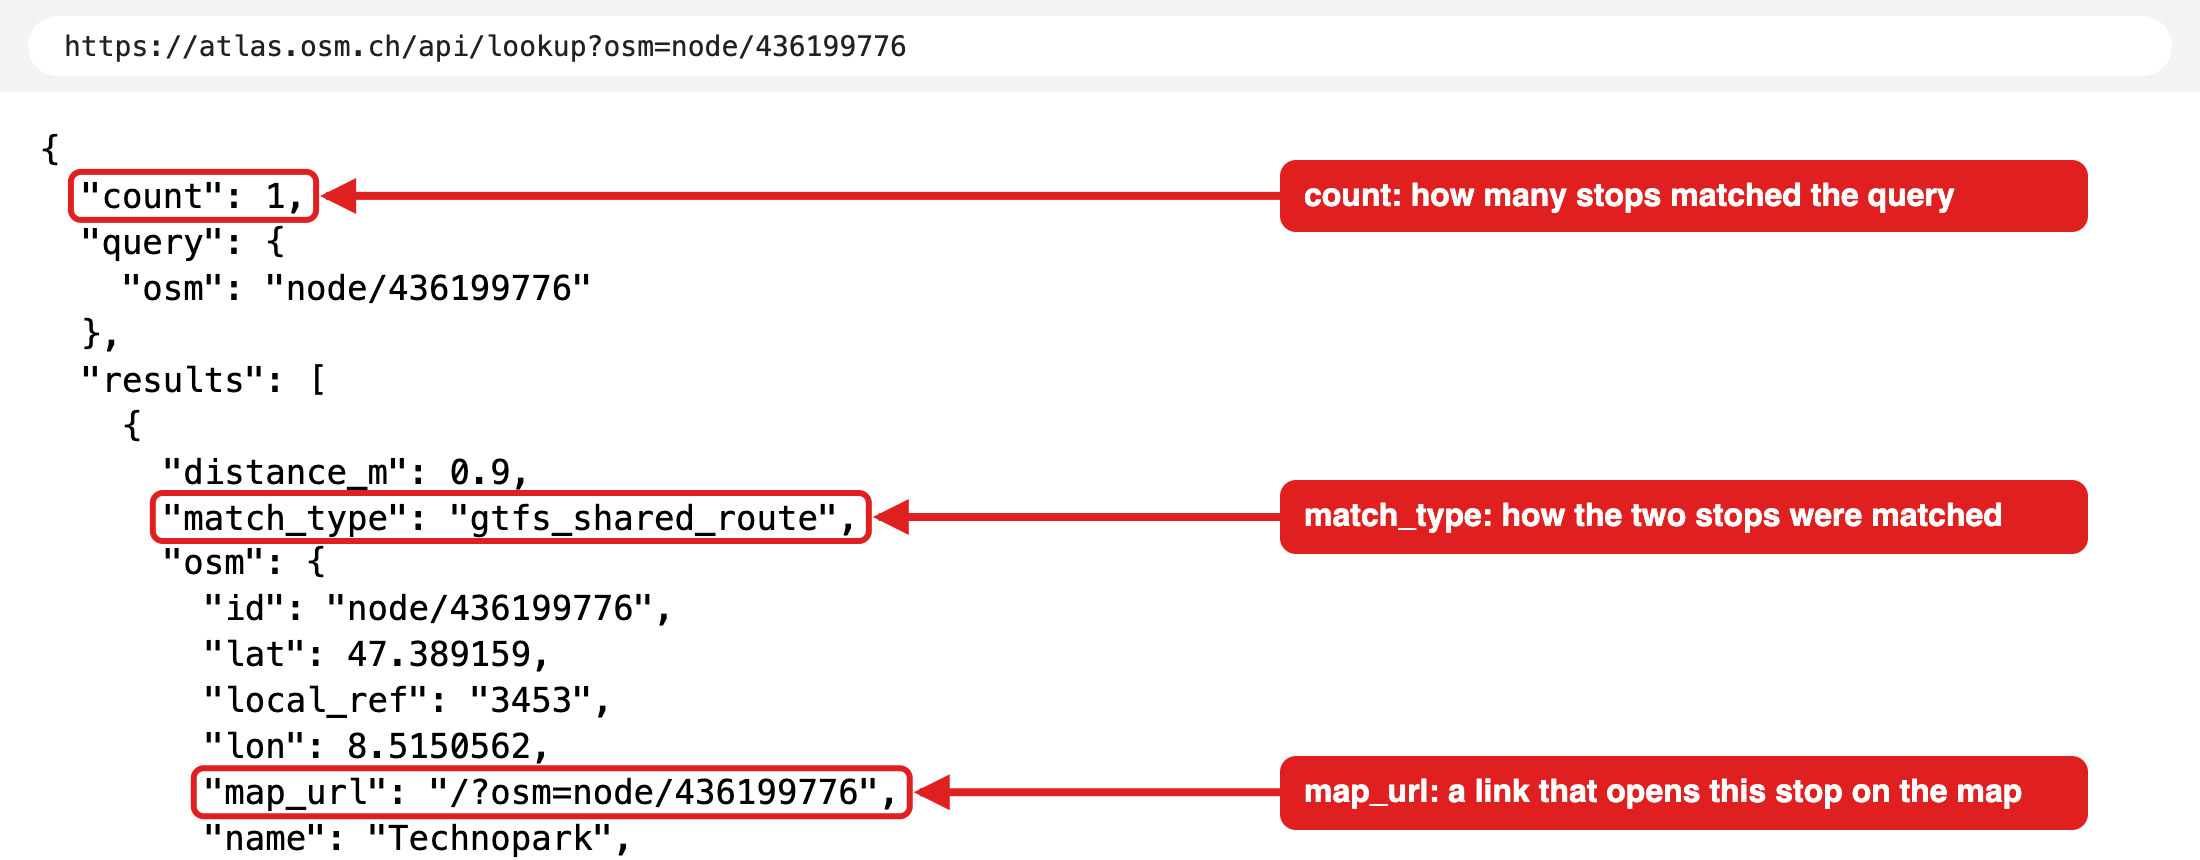
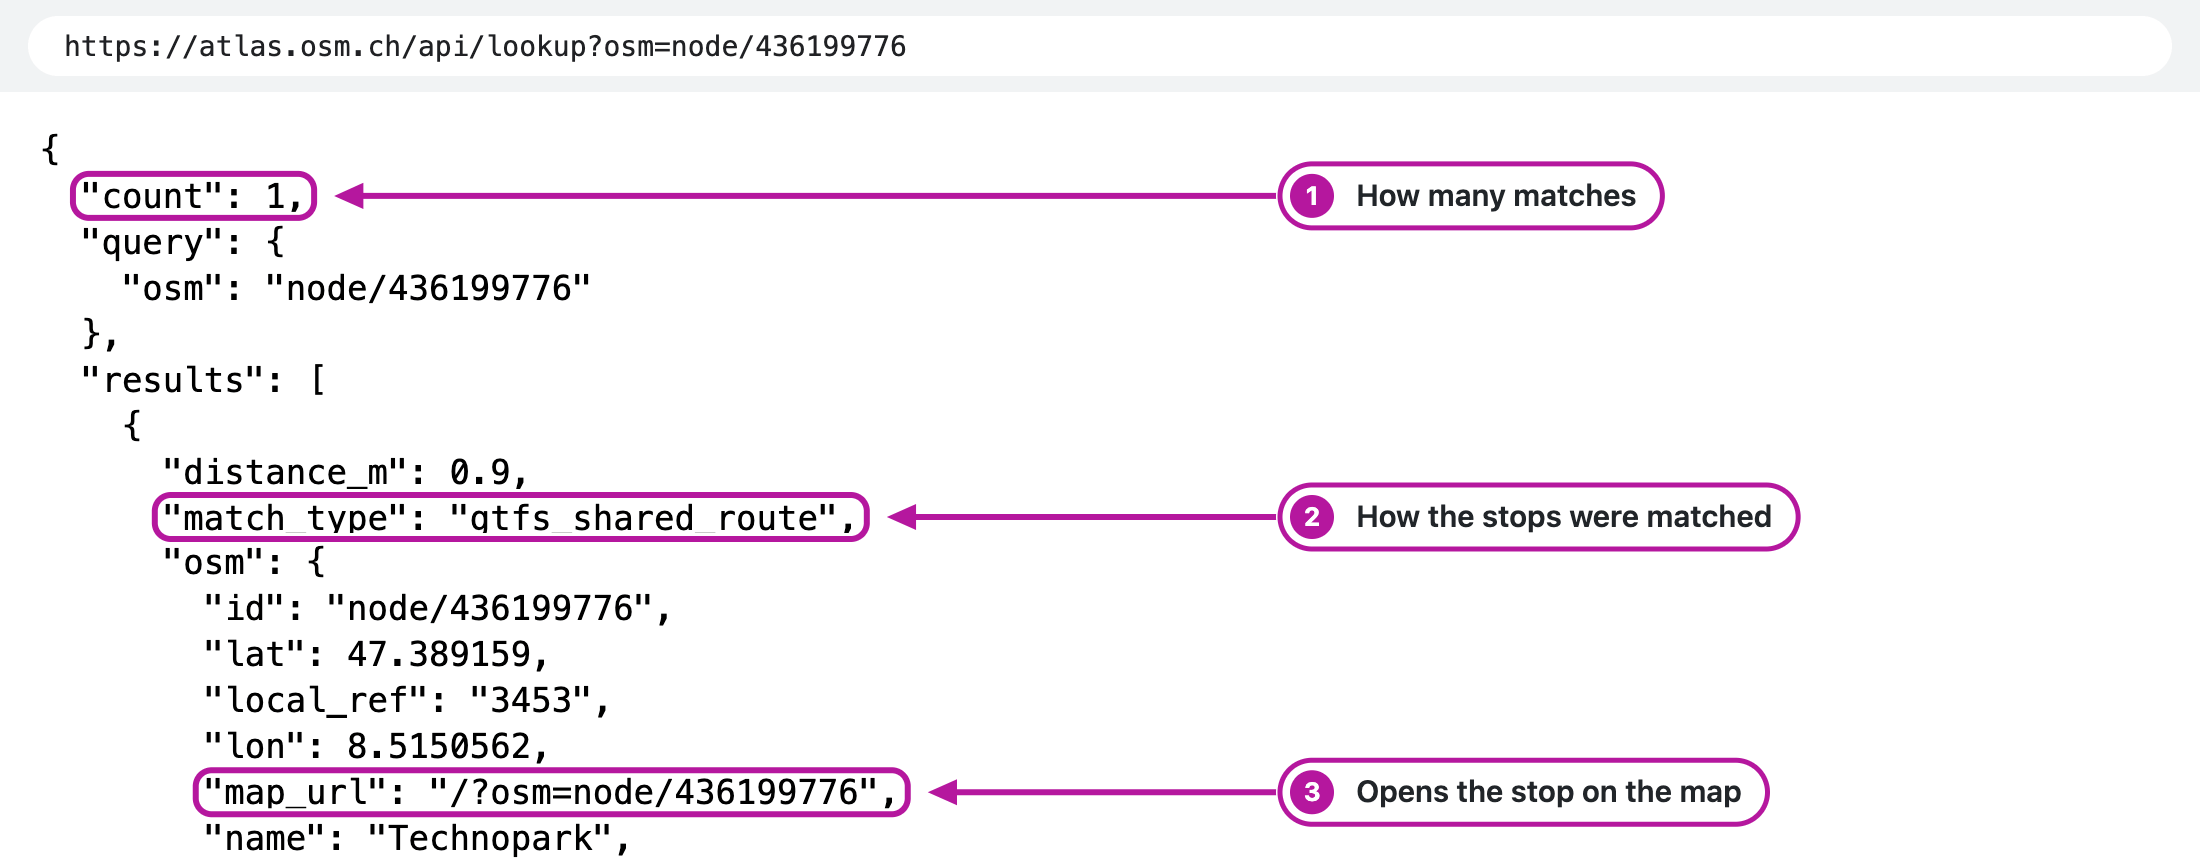
Enhance documentation for problems, routes, and sharing links
- Updated the "Problems" page with a detailed overview of the interface, including new images for better clarity.
- Improved the "Comparing routes" section to provide clearer explanations of line and variant comparisons, including new diagrams.
- Added a section on sharing links and API usage, with visual aids to illustrate the process.
- Introduced new diagrams to visually represent the relationship between GTFS routes and OSM route relations.
- Added several new images to support the documentation updates, including examples of unmatched variants and attribute mismatches.

diff --git a/documentation/diagrams/catalog.py b/documentation/diagrams/catalog.py
@@ -564,6 +564,55 @@ def route_model() -> Diagram:
     return d
 
 
+def route_line_and_variants() -> Diagram:
+    d = Diagram(
+        960, 420,
+        'A line and its variants',
+        'An illustrative bus line 31 on both sides. In the GTFS timetable the line is a route, and its trips '
+        'form one variant per direction and headsign. In OpenStreetMap the line is a route master relation, '
+        'and each of its route relations is one variant. The site matches the two lines first (1), then pairs '
+        'their variants (2). Two variants are paired; the third GTFS variant, a short run to Markt, has no '
+        'route relation in OSM and stays unmatched.',
+    )
+
+    d.add(zone(24, 104, 372, 296, ATLAS, 'GTFS', 'the timetable'))
+    d.add(zone(564, 104, 372, 296, OSM, 'OpenStreetMap', 'relations'))
+
+    d.add(box(44, 130, 332, 58, ATLAS, 'Line: a route', [code('route_id 31-B-j26-1', size=12)],
+              title_size=14, gap=4))
+    d.add(box(584, 130, 332, 58, OSM, 'Line: a route master', [code('type=route_master · ref=31', size=12)],
+              title_size=14, gap=4))
+
+    rows = (
+        (216, 'direction 0 · headsign Spital', 'from=Bahnhof · to=Spital'),
+        (276, 'direction 1 · headsign Bahnhof', 'from=Spital · to=Bahnhof'),
+        (336, 'direction 0 · headsign Markt', None),
+    )
+    for top, gtfs_line, osm_line in rows:
+        middle = top + 24
+        paired = osm_line is not None
+        d.add(arrow([(64, 188), (64, middle), (84, middle)], end_head=False, color=FAINT, corner=6))
+        d.add(box(84, top, 292, 48, ATLAS if paired else UNMATCHED, 'Variant: a group of trips', [gtfs_line],
+                  title_size=13.5, line_size=12, gap=3, pad=6))
+        if paired:
+            d.add(arrow([(896, 188), (896, middle), (876, middle)], end_head=False, color=FAINT, corner=6))
+            d.add(box(584, top, 292, 48, OSM, 'Variant: a route relation', [code(osm_line, size=12)],
+                      title_size=13.5, line_size=12, gap=3, pad=6))
+            tag, _ = pill(480, middle, 'variant match', EXTERNAL, anchor='middle', filled=False)
+            d.add(arrow([(376, middle), (584, middle)], color=INK, end_head=False, width=2), tag)
+        else:
+            d.add(box(584, top, 292, 48, EXTERNAL, None, ['no route relation'], line_size=12.5, dashed=True,
+                      filled=False))
+            tag, _ = pill(480, middle, 'unmatched', UNMATCHED, anchor='middle')
+            d.add(tag)
+
+    tag, _ = pill(480, 159, 'line match', EXTERNAL, anchor='middle', filled=False)
+    d.add(arrow([(376, 159), (584, 159)], color=INK, end_head=False, width=2), tag)
+    d.add(step(402, 159, 1))
+    d.add(step(402, 240, 2))
+    return d
+
+
 PIPELINE_PHASES = (
     (('Check', 'sources'), ENGINE), (('Prepare', 'source files'), ENGINE), (('Load', 'matching', 'inputs'), ENGINE),
     (('Stop', 'matching'), ENGINE), (('Route', 'matching'), ENGINE), (('Build', 'result', 'bundle'), ENGINE),
@@ -625,5 +674,6 @@ DIAGRAMS = (
     ('result-bundle-anatomy', 'engine', result_bundle_anatomy),
     ('import-snapshot-publication', 'app', import_snapshot_publication),
     ('route-model', 'engine', route_model),
+    ('route-line-and-variants', 'app', route_line_and_variants),
     ('pipeline-phases-and-modes', 'app', pipeline_phases_and_modes),
 )

diff --git a/documentation/0.1 Working through problems.md b/documentation/0.1 Working through problems.md
@@ -4,29 +4,50 @@ The **Problems** page shows the [problems](0.4%20Glossary.md#problem) of the mat
 
 ## The Problems page
 
-- **The card** over the bottom of the map explains the entry; click its type chip for the rule.
-- **Step** with **Next** and **Prev**, or the arrow keys; press `?` for all shortcuts. One entry gathers all problems of one stop.
-- **Filter** by **Priority**, **Type**, **ATLAS Operator** and **Area**, a rectangle you draw on a map.
-- **See other markers** shows the stops around the problem, faded.
+![The Problems page on one stop, with the filters, the context toggle, Prev and Next, the ATLAS and OSM markers, and the card's type chip and second problem marked](images/problems-page-overview.png)
 
-## What to do about each problem
+Look at the numbers in the picture:
+
+1. **Filter** by **Priority**, **Type**, **ATLAS Operator** and **Area**, a rectangle you draw on a map.
+2. **Hide other markers** and **See other markers** switch the stops around the problem, drawn faded, off and on.
+3. **Step** with **Prev** and **Next**, or the arrow keys; press `?` for all shortcuts.
+4. The ATLAS platform of the entry, navy when matched and red when not ([A2.7](2.7%20Colours%20and%20styles.md)).
+5. The OSM element, green when matched. Click a marker for its popup; drag a popup by its **Move** bar to see what lies under it.
+6. **The card** over the bottom of the map explains the entry. Its type chip opens the rule of the type; the chip beside it is the priority.
+7. One entry gathers all problems of one stop: scroll the card for the next one.
+
+## What each problem usually means
 
 > [!IMPORTANT]
 > A problem is a lead to check, not an instruction. Edit OSM only for what you can verify yourself, on the ground or with imagery you are allowed to use for OSM. Never copy values from this site into OSM unchecked, and never make bulk or automated edits from these lists.
 
-Each type links to its rule and priorities in E4.1. The matching reads the OSM tags `uic_ref`, `ref:sloid` (or `railway:ref:sloid`), `name`, `uic_name`, `local_ref` and `operator`, listed in [E1.3](../engine/documentation/1.3%20OSM%20input%20and%20acquisition.md#tags-the-engine-relies-on). This site has no reporting form: to report an ATLAS error, contact the ATLAS data owner. **(view on ATLAS)** in a popup opens the station's record.
+Each type links to its rule and priorities in E4.1. The matching reads the OSM tags `uic_ref`, `ref:sloid` (or `railway:ref:sloid`), `name`, `uic_name`, `local_ref` and `operator`, listed in [E1.3](../engine/documentation/1.3%20OSM%20input%20and%20acquisition.md#tags-the-engine-relies-on).
 
-| Type | Usually means | What to do in OSM | When to report to ATLAS |
-|---|---|---|---|
-| [Distance](../engine/documentation/4.1%20Stop%20problems.md#distance-problems) | The match is wrong, or one dataset places the stop wrongly. Long platforms explain some distance, so SBB platforms are at most P3 | Check where the stop is. Move a misplaced element there; if it is another stop, check the tags behind the match type. Never move an element only to shorten the line | OSM is right and the ATLAS position is wrong |
-| [Unmatched](../engine/documentation/4.1%20Stop%20problems.md#unmatched-problems), ATLAS platform | The stop is missing in OSM, or mapped without matching tags, or gone | Look at the nearby faded markers: a grey one may be its counterpart. Correct the tags you can verify, or map a missing stop | The stop does not exist, or ATLAS places it wrongly |
-| Unmatched, OSM element | The `uic_ref` is mistyped or outdated, the stop is gone, or ATLAS lacks the platform | Compare `uic_ref` with ATLAS by searching the number. For a stop you know is out of service, prefix its stop tags, as in `disused:highway=bus_stop`, which the matching reads as out of service, or remove it | The stop is served and ATLAS has no platform for it |
-| [Attributes](../engine/documentation/4.1%20Stop%20problems.md#attribute-problems) | One side is outdated or written differently. The name check reads OSM `uic_name`, not `name`. A different UIC number can also mean a wrong match | Correct an OSM value you know is wrong, such as `local_ref` against the platform sign. An operator difference can be one operator written two ways, such as `PAG` and a full name: leave a correct `operator` | ATLAS has the wrong name, number or platform code |
-| [Duplicates](../engine/documentation/4.1%20Stop%20problems.md#duplicate-problems), ATLAS (P2) | ATLAS lists one platform twice, or gives two platforms one code | Nothing | An ATLAS matter: compare the records first |
-| Duplicates, OSM (P3) | The platform is mapped twice, a `local_ref` is wrong, or a platform and its stop position were not paired | Keep one element where a platform is mapped twice in the same role, or correct the wrong `local_ref`. A platform with its stop position may need nothing | Never |
-| [Contradicts Route Matching](../engine/documentation/4.1%20Stop%20problems.md#contradicts-route-matching-problems) (P2) | The element may be another stop, such as the platform across the road, or an OSM route relation lists the wrong platform or is outdated | Check which platform each line serves. Correct a relation only where you can verify it; if the element is another platform, check its `local_ref` and `ref:sloid` | Rarely: the ATLAS routes come from the timetable |
-| [Disused OSM](../engine/documentation/4.1%20Stop%20problems.md#disused-problems) | P1: OSM and ATLAS disagree on whether the stop is in service. P2: apps still treat it as a stop | P1: check on the ground; remove the prefix if it is in service. P2: prefix or remove the remaining stop tags, and remove it from relations that do not serve it | P1, when the stop is gone |
-| [OSM SLOID](../engine/documentation/4.1%20Stop%20problems.md#identifier-problems) | P1: copied from another stop. P2: outdated or mistyped. P3: another number, such as a UIC number, in the wrong tag | Find which platform the element is, then correct the tag to that platform's SLOID, or remove it | The platform exists and ATLAS has no record of it |
+- **[Distance](../engine/documentation/4.1%20Stop%20problems.md#distance-problems)**: the match is wrong, or one dataset places the stop wrongly. Long platforms explain some distance, so SBB platforms are at most P3.
+- **[Unmatched](../engine/documentation/4.1%20Stop%20problems.md#unmatched-problems), ATLAS platform**: the stop is missing in OSM, mapped without the tags the matching reads, or gone. A faded marker nearby may be its counterpart.
+- **Unmatched, OSM element**: the `uic_ref` is mistyped or outdated, the stop is gone, or ATLAS lacks the platform.
+- **[Attributes](../engine/documentation/4.1%20Stop%20problems.md#attribute-problems)**: one side is outdated or written differently. The name check reads OSM `uic_name`, not `name`; an operator can be one operator written two ways, such as `PAG` and a full name. A different UIC number can also mean a wrong match.
+- **[Duplicates](../engine/documentation/4.1%20Stop%20problems.md#duplicate-problems), ATLAS** (P2): ATLAS lists one platform twice, or gives two platforms one code.
+- **Duplicates, OSM** (P3): the platform is mapped twice, a `local_ref` is wrong, or a platform and its stop position were not paired.
+- **[Contradicts Route Matching](../engine/documentation/4.1%20Stop%20problems.md#contradicts-route-matching-problems)** (P2): the element may be another stop, such as the platform across the road, or an OSM route relation lists the wrong platform or is outdated.
+- **[Disused OSM](../engine/documentation/4.1%20Stop%20problems.md#disused-problems)**: at P1, OSM and ATLAS disagree on whether the stop is in service. At P2, apps still treat the element as a stop, through a remaining stop tag or a route relation.
+- **[OSM SLOID](../engine/documentation/4.1%20Stop%20problems.md#identifier-problems)**: at P1, copied from another stop; at P2, outdated or mistyped; at P3, another number, such as a UIC number, in the wrong tag.
+
+This site has no reporting form: to report an ATLAS error, contact the ATLAS data owner. **(view on ATLAS)** in a popup opens the station's record.
+
+## Two examples
+
+### An unmatched ATLAS platform
+
+![An unmatched ATLAS platform and an unmatched OSM bus stop 8 m away, both popups open, with the two names and the OSM tags marked](images/problems-unmatched-nearby.png)
+
+Look at the two names: ATLAS writes *St-Triphon,gouille du Duzillet*, OSM *Saint-Triphon, Gouille du Duzillet*, and the OSM stop has no `uic_ref`. No rule links the two, so each is unmatched. They are probably the same platform; once you have verified that, a `uic_ref` on the OSM stop gives the matching its link.
+
+### An attribute mismatch
+
+![A matched pair whose card reports a Local Reference mismatch: A in ATLAS, 2124 in OSM](images/problems-attribute-mismatch.png)
+
+Look at the two values: ATLAS gives the platform code `A`, OSM the `local_ref` `2124`, which is no platform code. Check the sign at the stop before you correct either side.
 
 ## Related pages
 

diff --git a/documentation/0.2 Comparing routes.md b/documentation/0.2 Comparing routes.md
@@ -1,16 +1,66 @@
 # 0.2 Comparing routes
 
-The **Routes** menu has three tabs: the lines of the timetable and OSM, the OSM routes outside the timetable, and the link between timetable stops and ATLAS platforms.
+The **Routes** menu shows which lines of the timetable are mapped in OSM, and where their stops differ. It has three tabs: the lines of the timetable and OSM, the OSM routes outside the timetable, and the link between timetable stops and ATLAS platforms.
 
-## Lines and their variants
+## Lines and variants
 
-The **Routes** tab compares lines ([line families](0.4%20Glossary.md#line-family)). It shows one card per matched pair of lines and one per line without a match, marked **Matched**, **Unmatched GTFS** or **Unmatched OSM**. The GTFS side comes from the timetable, the OSM side from route relations. A card lists the line's variants ([itineraries](0.4%20Glossary.md#itinerary)) by direction, each with a figure:
+Both sources describe public transport on two levels, a line and its variants, and the site compares them level by level.
 
-- *stop overlap* (green): a matched variant. The overlap is the share of stops both variants serve in the same order.
-- *Highest overlap* (blue): an unmatched variant's closest variant on the other side; hover to see which. It is a hint, not a match.
-- *No shared stops*: no variant on the other side serves any of its stops.
+![A line and its variants in the GTFS timetable and in OpenStreetMap, with the line match and the variant matches](images/route-line-and-variants.svg)
 
-Opening a variant aligns both stop lists in route order and marks a stop that only one side serves, *Not in GTFS* or *Not in OSM*, or that the sides serve at different platforms of one station. A low overlap or a *Not in OSM* row is a lead: the relation may miss a stop, call at another platform, or follow an older route. Check it before you edit the relation.
+| | GTFS timetable | OpenStreetMap |
+|---|---|---|
+| **Line** | A route, identified by its `route_id` | A route master: a relation tagged `type=route_master` that groups the route relations of the line |
+| **Variant** | The trips of the route that share a direction and a headsign | One route relation (`type=route`): one direction or stop pattern of the line, with its stops in order |
+
+The site matches the lines first (1), then pairs the variants of two matched lines (2). A variant without a counterpart stays unmatched, like the short run to Markt in the figure. Route relations without a route master still form a line: they are grouped by their `gtfs:route_id`, or by their line number, operator and network.
+
+The glossary and the developer pages call a line a [line family](0.4%20Glossary.md#line-family) and a variant an [itinerary](0.4%20Glossary.md#itinerary).
+
+## Read a line card
+
+The **Routes** tab shows one card per matched pair of lines and one per line without a match. The screenshots on this page follow one line, the S10 of the Uetlibergbahn, as an example.
+
+![A line card of the Routes tab: search and filters, the GTFS route beside the OSM route master, the match badges and the variant rows](images/routes-line-card.png)
+
+Look at the numbers in the picture:
+
+1. **Search and filters.** Find a line by its GTFS or OSM route ID, by operator, or by status: **Matched**, **Unmatched GTFS** or **Unmatched OSM**.
+2. **The line in the timetable**, a GTFS route. Click it for its details.
+3. **The same line in OSM**, a route master. Click it for its details and a link to the route master.
+4. **The line match.** Whether the lines are matched, and what supports the match: the route ID and the stops, the stops, or the route ID alone. Check a match by the route ID alone first, because the stops do not confirm it.
+5. **A matched variant** (green). The *stop overlap* is the share of stops both variants serve in the same order.
+6. **An unmatched variant** (blue). The *Highest overlap* is that of its closest variant on the other side; hover to see which. It is a hint, not a match. *No shared stops* means that no variant on the other side serves any of its stops.
+
+## Open a variant
+
+Click a variant row to compare its stops. The two stop lists are aligned in route order, beside a map of the stops.
+
+![An opened matched variant: the overlap, the aligned stop lists with one stop marked Not in OSM, and the map with a ring around that stop](images/routes-variant-stops.png)
+
+Look at the numbers in the picture:
+
+1. **The overlap** of the two variants, with the number of stops that match in order and of those only one side has.
+2. **OSM relation** opens the variant's route relation in OSM.
+3. **A stop only one side serves.** In this example the timetable's train starts at Zürich HB and the OSM relation one stop later. The list marks such a stop *Not in OSM* or *Not in GTFS*, and the map circles it with a dashed ring. The list also marks a stop that the sides serve at different platforms of one station.
+
+A low overlap or a *Not in OSM* row is a lead: the relation may miss a stop, call at another platform, or follow an older route. Check it before you edit the relation.
+
+## Compare an unmatched variant
+
+Two variants are paired when they share at least 80% of the longer stop list in order and their directions do not disagree, and each variant is paired once. An unmatched variant opens beside its closest variant of the other side; the picker above the lists changes the variant to compare with.
+
+![An opened unmatched GTFS variant, compared with its closest OSM variant, which is already matched to another GTFS variant](images/routes-unmatched-variant.png)
+
+Look at the numbers in the picture:
+
+1. **The picker** lists the variants of the other side by overlap. Choose one to compare with it.
+2. **Already matched** says that the compared variant is paired with another variant, here the GTFS variant that ends at Zürich Selnau.
+3. **The stop that differs.** In this example the timetable's run goes on to Zürich HB, and its closest OSM variant ends one stop earlier.
+
+An unmatched GTFS variant is a lead of the same kind: OSM may lack a relation for it, as for the longer run here, or the stops of an existing relation may differ.
+
+## Lines with several matches
 
 A line can have several matches, and each is a card of its own. The timetable can split one line into several routes, for example one per operator, and OSM maps the line once: the card then says *This OSM line is also matched to GTFS route …*. When a card says *This GTFS route is also matched to OSM line …*, OSM holds the line twice or in two parts, which is worth checking: its relations may belong in one route master.
 

diff --git a/documentation/0.3 Sharing links and the API.md b/documentation/0.3 Sharing links and the API.md
@@ -4,9 +4,12 @@
 
 Every page keeps what it shows in the address bar: the map its view, open popup and filters, the Problems page its filters and entry, the Routes tabs their open variant. Copy the address, or use a **Copy link** button, and the link opens the same view for anyone, as long as the data still holds it ([A2.9](2.9%20Permalinks.md)).
 
-![A stop popup on the map with the Copy link button circled, and the address bar showing the same link](images/sharing-map-copy-link.png)
+![A stop popup on the map with the Copy link button marked, and the address bar showing the same link](images/sharing-map-copy-link.png)
 
-Look at the address bar at the top: it already holds the link, the stop and the map position, so copying it works as well as the button in the popup.
+Look at the numbers in the picture:
+
+1. **Copy link** in a stop's popup copies the link of this view.
+2. **The address bar** already holds the same link, the stop (`sloid`) and the map position (`#map=`), so copying it works as well.
 
 ## Look up a stop from a script
 
@@ -18,7 +21,11 @@ curl -s 'https://atlas.osm.ch/api/lookup?osm=node/436199776'
 
 ![The JSON the lookup returns for an OSM node, with count, match_type and map_url marked](images/sharing-api-lookup.png)
 
-Look at the three marked fields: `count` says how many matches the stop has, `match_type` how they were matched, and `map_url` is the path that opens the stop on the map.
+Look at the numbers in the picture:
+
+1. `count` says how many matches the stop has.
+2. `match_type` says how the two stops were matched.
+3. `map_url` is the path that opens the stop on the map.
 
 Only the lookup is stable; other addresses under `/api/` serve the pages and change without notice. AI agents can read `/llms.txt`, which explains the site and points them to the lookup.
 
